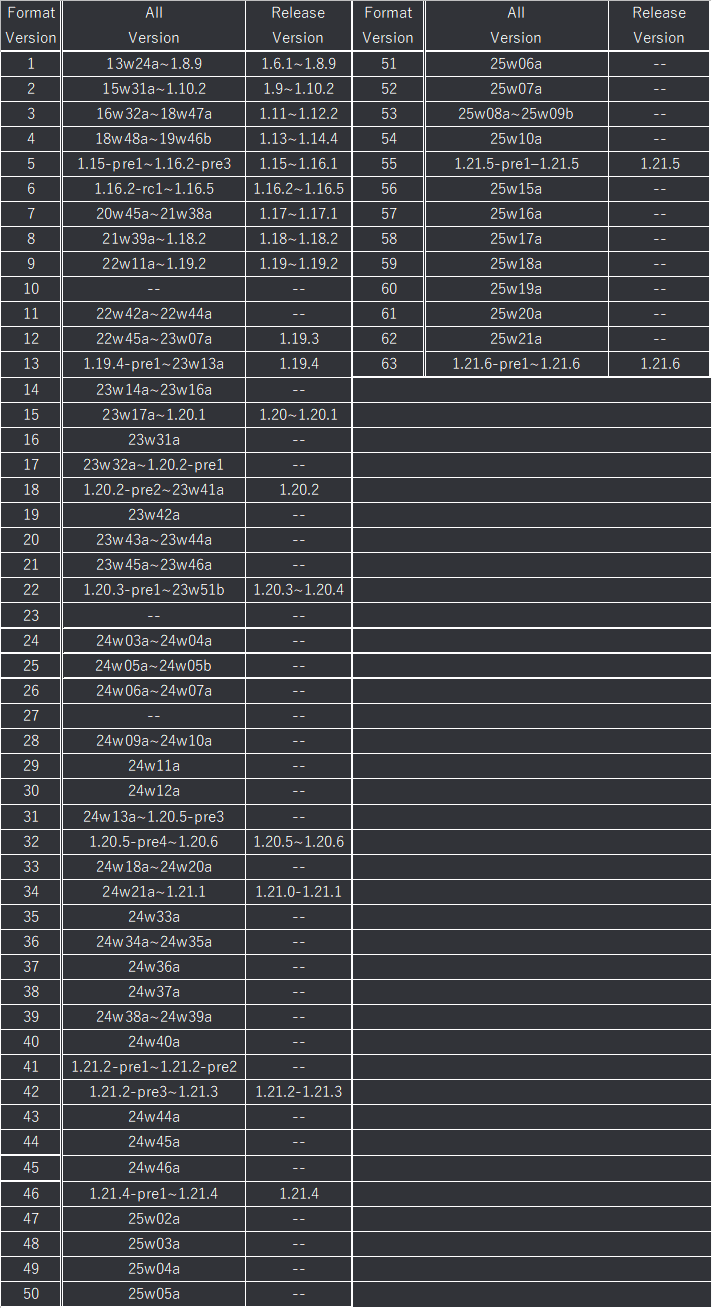
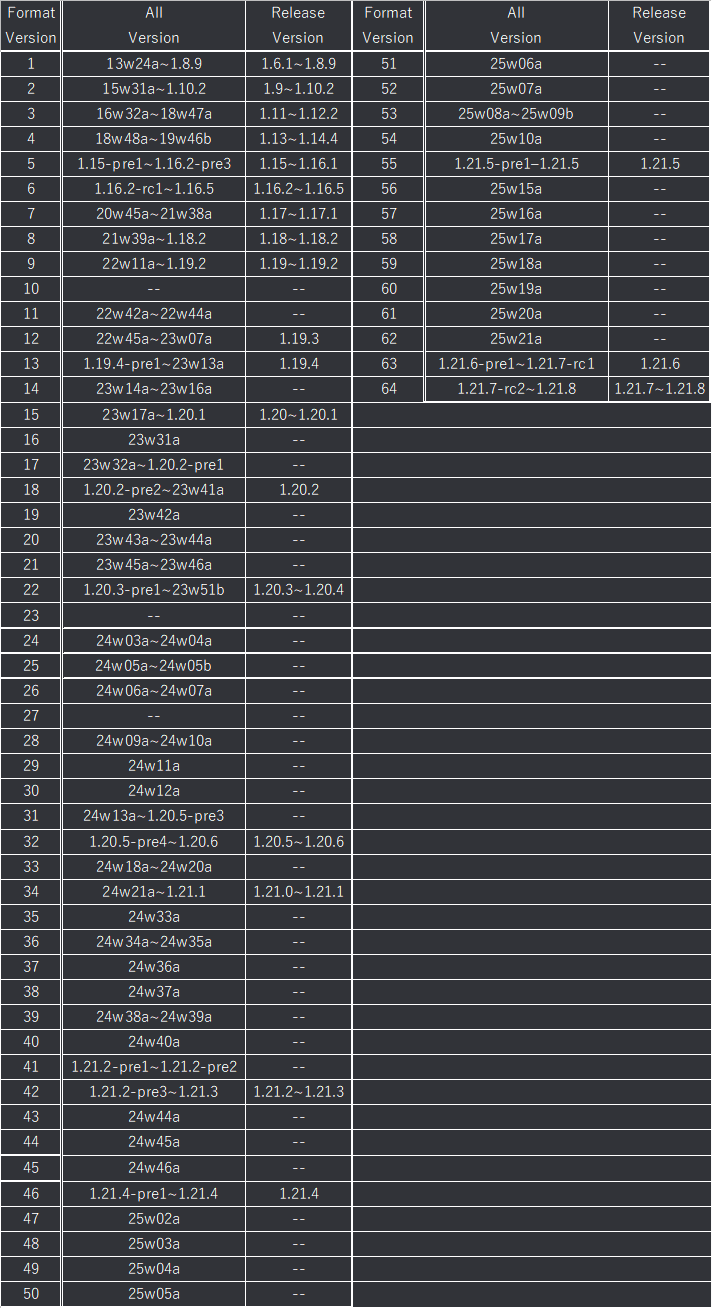
#1.21.8.0-1.21.8対応

diff --git a/config/config.py b/config/config.py
@@ -5,7 +5,7 @@ from typing import Optional
 from pydantic import BaseModel
 
 latest_minecraft_data_version = "1.21.4"
-latest_version = "1.21.6"
+latest_version = "1.21.8"
 
 
 class BumpNofitication(BaseModel):
